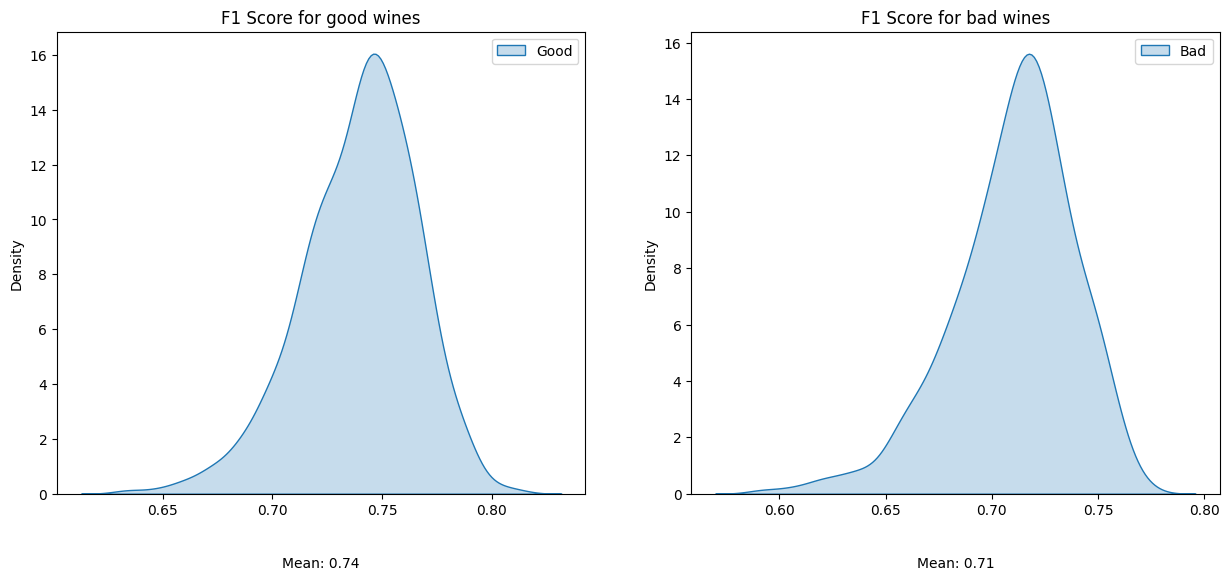
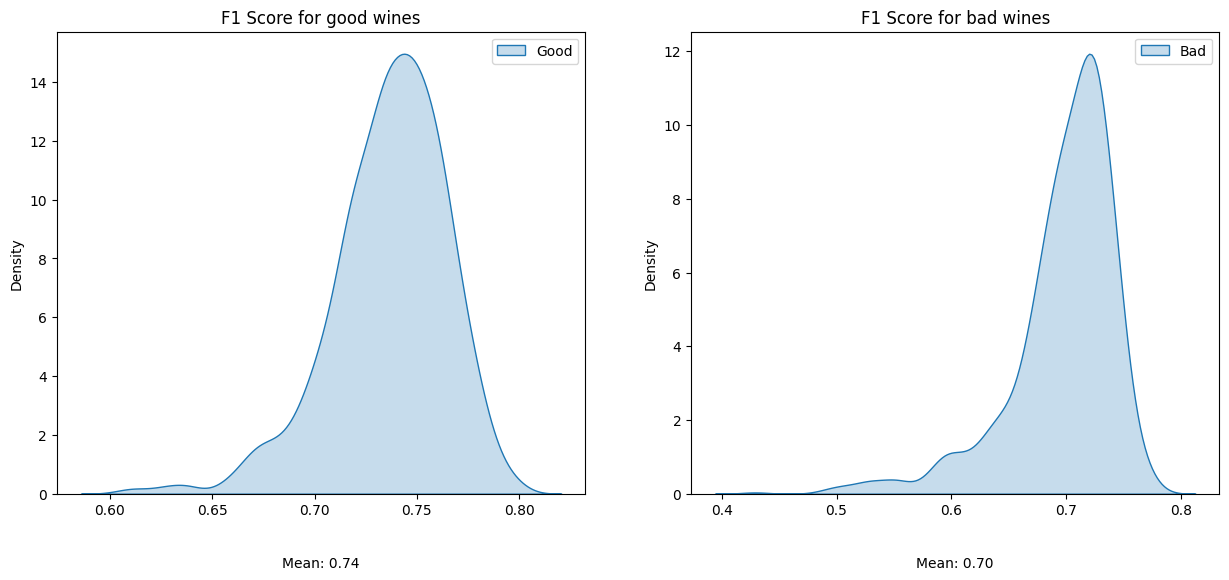
Segundo modelo

diff --git a/index.html b/index.html
@@ -722,9 +722,9 @@ c6.177,6.18,9.262,14.271,9.262,22.366C354.708,234.018,351.617,242.115,345.441,24
               Preliminary conclusions on the second model</h3>
               <p>A 1000-iteration cross-validation strategy was employed to assess the model's ability to generalize to unseen data. This rigorous approach minimizes the risk of overfitting and strengthens confidence in the model's real-world applicability.</p>
             <ul class="u-text u-text-9">
-              <li>The model achieved an accuracy of around 73%, indicating its capability to correctly classify a significant portion (73%) of wines as "good" or "bad." This suggests a moderate to good performance in differentiating wine quality.</li>
-              <li>Precision, which measures the positive predictive value, reached 75% for "good" wines and 70% for "bad" wines. This signifies that the model effectively minimizes false positives in both categories.  Similarly, recall, which reflects the ability to identify true positives, achieved scores of 73% and 72% for "good" and "bad" wines respectively. These values indicate the model successfully captures a substantial proportion of relevant wines in each class.</li>
-              <li>The F1 score, a harmonic mean of precision and recall, reached 74% for "good" wines and 71% for "bad" wines. These scores showcase a balanced performance between identifying relevant instances (precision) and capturing all relevant instances (recall) for both categories.</li>   
+              <li>The model achieved an accuracy of around 72%, indicating its capability to correctly classify a significant portion (72%) of wines as "good" or "bad." This suggests a moderate to good performance in differentiating wine quality.</li>
+              <li>Precision, which measures the positive predictive value, reached 74% for "good" wines and 70% for "bad" wines. This signifies that the model effectively minimizes false positives in both categories.  Similarly, recall, which reflects the ability to identify true positives, achieved scores of 74% and 70% for "good" and "bad" wines respectively. These values indicate the model successfully captures a substantial proportion of relevant wines in each class.</li>
+              <li>The F1 score, a harmonic mean of precision and recall, reached 74% for "good" wines and 70% for "bad" wines. These scores showcase a balanced performance between identifying relevant instances (precision) and capturing all relevant instances (recall) for both categories.</li>   
               <li>The neural network model exhibits encouraging potential for wine quality prediction. The balanced performance across classes, combined with the moderate to good overall accuracy and F1 scores, suggests its effectiveness in classifying wines.</li>   
             </ul>
           </div>
